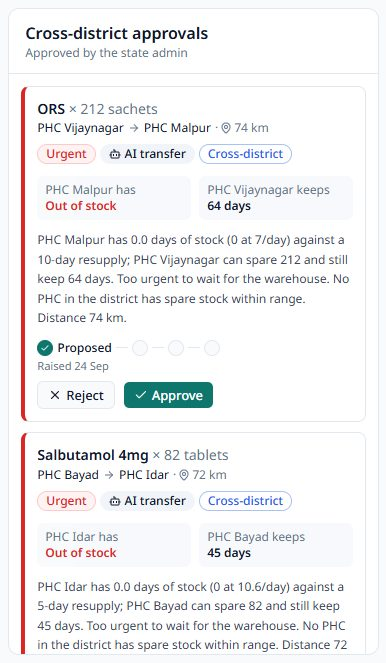
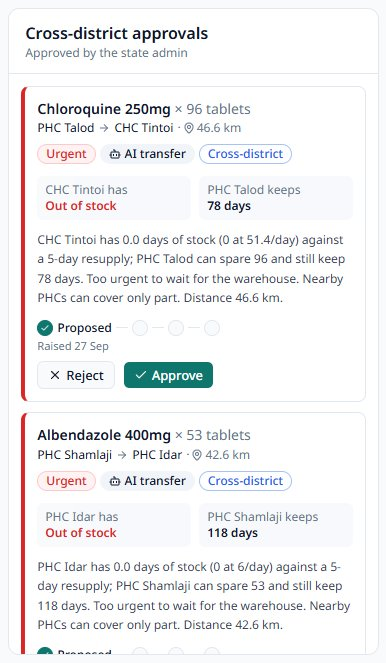
Realistic demo month, planner fixes, updated README and screenshots

diff --git a/src/lib/engine/redistribute.ts b/src/lib/engine/redistribute.ts
@@ -300,6 +300,24 @@ export type NearExpiryBatch = {
 }
 
 /**
+ * How much of batch `b` its holder will use before it expires, first-expiry-first-out: the holder works
+ * through its batches in expiry order at `pdu` a day, and what an earlier batch has not used by its own
+ * expiry date is lost (written off or moved), not carried over.
+ */
+export function usableBeforeExpiry(batches: NearExpiryBatch[], b: NearExpiryBatch, pdu: number): number {
+  const mine = batches
+    .filter((x) => x.facilityId === b.facilityId && x.medicineId === b.medicineId)
+    .sort((x, y) => x.daysToExpiry - y.daysToExpiry || x.batchNo.localeCompare(y.batchNo))
+  let used = 0 // total consumed so far, counted from today
+  for (const x of mine) {
+    const u = Math.max(0, Math.min(x.qty, Math.floor(pdu * x.daysToExpiry) - used))
+    if (x === b) return u
+    used += u
+  }
+  return 0
+}
+
+/**
  * For batches expiring within 90 days, the part the holder won't use before expiry is offered to the
  * nearest facility in the same district that will use its current stock *and* the transfer before
  * that date. Recipients never receive more than they can use in time.
@@ -331,9 +349,8 @@ export function planNearExpiry({
     const hp = byKey.get(key(b.facilityId, b.medicineId))
     // sub-centres never send stock sideways; their PHC handles returns
     if (!holder || holder.type === "shc" || !hp || hp.pdu === null) continue
-    // the holder uses other (earlier) stock first too, so what it can use of this batch is bounded by its own pace
-    const usable = Math.floor(hp.pdu * b.daysToExpiry)
-    let excess = Math.min(b.qty, Math.floor(hp.stock - usable))
+    const usable = usableBeforeExpiry(batches, b, hp.pdu)
+    let excess = Math.min(b.qty - usable, Math.floor(hp.stock))
     if (excess < settings.minTransferQty) continue
 
     const candidates = pairs

diff --git a/src/lib/engine/redistribute.test.ts b/src/lib/engine/redistribute.test.ts
@@ -100,9 +100,26 @@ describe("planNearExpiry", () => {
       settings,
     })
     expect(out).toHaveLength(1)
-    // A can use 10/day × 45 = 450 before expiry, minus its own 50 -> room for 400; the excess is min(300, 600-90)
-    expect(out[0]).toMatchObject({ fromId: "B", toId: "A", qty: 300, priority: 2 })
+    // B uses 90 of the batch before expiry, so 210 would expire; A can use 10/day × 45 = 450, minus its own 50 -> room for 400
+    expect(out[0]).toMatchObject({ fromId: "B", toId: "A", qty: 210, priority: 2 })
     expect(out[0].reason).toMatch(/Near expiry: batch X1/)
+  })
+
+  it("counts batches that expire earlier as used first", () => {
+    // B uses 2/day. X0 (100, expires day 20): 40 used, 60 expire.
+    // X1 (300, expires day 45): used from day 20 to 45 -> 50 used, 250 expire.
+    const out = planNearExpiry({
+      facilities,
+      pairs: [pair("B", 600, 2, 300), pair("A", 0, 20, 0)],
+      batches: [
+        { facilityId: "B", medicineId: "M", batchNo: "X0", qty: 100, daysToExpiry: 20 },
+        { facilityId: "B", medicineId: "M", batchNo: "X1", qty: 300, daysToExpiry: 45 },
+      ],
+      incoming: new Map(),
+      settings,
+    })
+    expect(out.find((t) => t.reason.includes("X0"))?.qty).toBe(60)
+    expect(out.find((t) => t.reason.includes("X1"))?.qty).toBe(250)
   })
 
   it("does not overload a recipient that cannot use it in time", () => {

diff --git a/src/app/(app)/national/page.tsx b/src/app/(app)/national/page.tsx
@@ -93,7 +93,7 @@ export default async function NationalPage() {
         <StatTile label="States" value={stateList.length} icon={MapIcon} sub={`${districts.length} districts`} />
         <StatTile label="Facilities" value={facilities.length} icon={Building2} sub={`${phcs.length} PHCs`} />
         <StatTile
-          label="PHCs critical"
+          label="Facilities critical"
           value={perState.reduce((a, s) => a + s.phcsCritical, 0)}
           status="critical"
           icon={AlertOctagon}
@@ -125,7 +125,7 @@ export default async function NationalPage() {
               <tr>
                 <th className="px-4 py-2.5 font-medium">State</th>
                 <th className="px-3 py-2.5 text-right font-medium">Districts</th>
-                <th className="px-3 py-2.5 text-right font-medium">PHCs critical</th>
+                <th className="px-3 py-2.5 text-right font-medium">Facilities critical</th>
                 <th className="px-3 py-2.5 text-right font-medium">Critical lines</th>
                 <th className="px-3 py-2.5 text-right font-medium">Pending approvals</th>
                 <th className="px-3 py-2.5 text-right font-medium">Attendance</th>

diff --git a/src/components/heal/phc/doctor-home.tsx b/src/components/heal/phc/doctor-home.tsx
@@ -45,6 +45,8 @@ export async function DoctorHome({ session }: { session: Session }) {
     getIndents(db, { warehouseId: fid, status: ["submitted", "approved"] }),
     getOpenStockouts(db, fid),
   ])
+  // the sub-centres' own stock, so their requests show how many days they have left
+  const subCentreStock = fromSubCentres.length && stock[0] ? await getStock(db, { districtId: stock[0].districtId, facilityType: "shc" }) : []
   const subCentreWaiting = fromSubCentres.filter((i) => i.status === "submitted" && !i.awaitingMo)
   const subCentreToSend = fromSubCentres.filter((i) => i.status === "approved")
 
@@ -139,7 +141,7 @@ export async function DoctorHome({ session }: { session: Session }) {
           className="border-amber-300 ring-4 ring-amber-100"
           bodyClassName="p-3"
         >
-          <RecommendationList items={enrich(subCentreWaiting, stock)} viewer={toViewer(session)} emptyIcon={ClipboardCheck} emptyText="" compact lang={lang} />
+          <RecommendationList items={enrich(subCentreWaiting, subCentreStock)} viewer={toViewer(session)} emptyIcon={ClipboardCheck} emptyText="" compact lang={lang} />
         </Section>
       ) : null}
 

diff --git a/src/components/heal/state-overview.tsx b/src/components/heal/state-overview.tsx
@@ -88,7 +88,7 @@ export async function StateOverview({
       <div className="grid grid-cols-2 gap-3 md:grid-cols-3 xl:grid-cols-5">
         <StatTile label="Districts" value={districts.length} icon={MapIcon} sub={`${facilities.length} facilities`} />
         <StatTile
-          label="PHCs critical"
+          label="Facilities critical"
           value={phcCritical}
           status={phcCritical ? "critical" : "ok"}
           icon={Building2}
@@ -132,7 +132,7 @@ export async function StateOverview({
               <thead className="text-muted-foreground text-left text-xs">
                 <tr className="border-b">
                   <th className="py-2 pr-3 font-medium">District</th>
-                  <th className="px-3 py-2 text-right font-medium">PHCs critical</th>
+                  <th className="px-3 py-2 text-right font-medium">Facilities critical</th>
                   <th className="px-3 py-2 text-right font-medium">Critical items</th>
                   <th className="px-3 py-2 text-right font-medium">Open alerts</th>
                   <th className="px-3 py-2 text-right font-medium">Pending</th>

diff --git a/src/components/heal/phc/stockout-button.tsx b/src/components/heal/phc/stockout-button.tsx
@@ -86,9 +86,9 @@ export function StockoutButton({ lang, facilityId, items }: { lang: Lang; facili
                 className={cn(picked?.id === m.id && "bg-red-50 font-medium text-critical")}
               >
                 <PackageX className={cn("text-muted-foreground", picked?.id === m.id && "text-critical")} aria-hidden="true" />
-                <span className="truncate">{m.name}</span>
-                <span className="text-muted-foreground ml-auto text-xs">
-                  {formatNumber(m.quantity)} {m.unit}s {t(lang, "out.onRecord")}
+                <span className="min-w-0 flex-1 truncate">{m.name}</span>
+                <span className="text-muted-foreground shrink-0 text-xs whitespace-nowrap" title={t(lang, "out.onRecord")}>
+                  {formatNumber(m.quantity)} {m.unit}s
                 </span>
               </CommandItem>
             ))}

diff --git a/src/components/heal/recommendation-card.tsx b/src/components/heal/recommendation-card.tsx
@@ -28,7 +28,11 @@ export function RecommendationCard({
   const qty = isTransfer ? item.qty : (item.qtyApproved ?? item.qtyRequested)
   const from = isTransfer ? item.fromName : item.warehouseName
   const to = isTransfer ? item.toName : item.facilityName
-  const priority = isTransfer ? item.priority : item.receiverDaysLeft !== null && item.receiverDaysLeft < 7 ? 1 : 2
+  const priority = isTransfer
+    ? item.priority
+    : /^urgent/i.test(item.aiReason ?? "") || (item.receiverDaysLeft !== null && item.receiverDaysLeft < 7)
+      ? 1
+      : 2
   const actions = isTransfer ? transferActions(item, viewer) : indentActions(item, viewer)
   const reason = item.aiReason ?? (item.kind === "indent" ? item.note : null)
   const receiverStatus = statusFor(item.receiverDaysLeft, 7)

diff --git a/src/components/heal/district-overview.tsx b/src/components/heal/district-overview.tsx
@@ -70,7 +70,7 @@ export async function DistrictOverview({ db, districtId, viewer }: { db: DB; dis
       />
       <div className="grid grid-cols-2 gap-3 md:grid-cols-3 xl:grid-cols-5">
         <StatTile
-          label="PHCs in critical state"
+          label="Facilities in critical state"
           value={`${formatNumber(summary?.facilitiesCritical ?? 0)} / ${formatNumber(phcs.length)}`}
           status={(summary?.facilitiesCritical ?? 0) > 0 ? "critical" : "ok"}
           icon={Building2}

diff --git a/src/lib/engine/run.ts b/src/lib/engine/run.ts
@@ -502,7 +502,8 @@ export async function runEngine(
             daysLeft: p.fc.daysLeft,
             resupplyDays: f.resupply_days,
           },
-          thresholds,
+          // a warehouse normally holds months of stock for the whole district: overstock only past twice the limit
+          f.type === "warehouse" ? { ...thresholds, overstockDays: thresholds.overstockDays * 2 } : thresholds,
         ),
       )
     }

diff --git a/README.md b/README.md
@@ -41,6 +41,14 @@ AarogyaGrid predicts how much of each medicine every health centre will use over
 |---|---|---|
 | ![District map with boundaries and transfers](docs/screenshots/district-map.jpg) | ![30-day forecast](docs/screenshots/forecast.jpg) | ![National overview](docs/screenshots/national-overview.jpg) |
 
+| Sub-centre (phone) | Scanning a pack | "We've run out" |
+|---|---|---|
+| ![Sub-centre home](docs/screenshots/subcentre-phone.jpg) | ![Scan receipt](docs/screenshots/scan-phone.jpg) | ![We've run out](docs/screenshots/stockout-phone.jpg) |
+
+| District hospital: beds by type | Sub-centre requests at the PHC | Catalogue by level of care |
+|---|---|---|
+| ![District hospital](docs/screenshots/district-hospital.jpg) | ![Sub-centre requests](docs/screenshots/subcentre-requests.jpg) | ![Catalogue by tier](docs/screenshots/tier-catalogue.jpg) |
+
 | Cross-district approval | Admin console: medicines | Asking for a new medicine |
 |---|---|---|
 | ![Cross-district approval](docs/screenshots/cross-district-approval.jpg) | ![Admin console](docs/screenshots/admin-medicines.jpg) | ![Medicine request](docs/screenshots/medicine-request-phone.jpg) |
@@ -120,8 +128,8 @@ Next.js 16 (App Router, React 19, TypeScript) · Tailwind CSS 4 · shadcn/ui + R
 Open the site and pick any account in the **Demo accounts** panel on the login page: one click, no password. Each role sees only its own area. A good tour:
 
 1. **Dungarpur · district** (Dr. Farida Khan): an outbreak warning, the facility map with district borders, and the action queue of suggested orders and transfers.
-2. **PHC · Doctor**, then choose **PHC Malpur**: the doctor's day at a glance and staff requests waiting for sign-off. Switch to **Staff** to see the phone view and voice entry.
-3. **Health facilities**, then choose **SHC Obri**: a sub-centre whose orders go to PHC Sagwara. Then try **District Hospital Dungarpur · Doctor** to see ICU and HDU beds by type.
+2. **PHC · Doctor**, then choose **PHC Malpur**: the doctor's day at a glance and staff requests waiting for sign-off. Switch to **Staff** to see the phone view, voice entry, **Scan receipt** (try the sample pack) and the **We've run out** button.
+3. **Health facilities**, then choose **SHC Obri**: a sub-centre whose orders go to PHC Sagwara; sign in as the **PHC Sagwara** doctor to approve them. Then try **District Hospital Dungarpur · Doctor** to see ICU and HDU beds by type.
 4. **Gujarat · state admin** (Dr. Kiran Desai): transfers between districts, and the Admin console with medicine requests from PHCs.
 5. **India · national admin** (Dr. Meera Iyer): both states on one map, state comparison and forecast accuracy.
 
@@ -130,6 +138,7 @@ Open the site and pick any account in the **Demo accounts** panel on the login p
 - **2 states, 5 districts, 36 PHCs, 12 sub-centres, 2 CHCs, 2 district hospitals, 5 district warehouses and 26 items** (medicines, oxygen, consumables, vaccines, diagnostic kits), about 14 months of daily history with realistic seasons.
 - Jan Aushadhi stores can be shown on the map for reference; they are not part of the government stock chain.
 - Facility names are real places in Udaipur, Rajsamand and Dungarpur (Rajasthan) and Aravalli and Sabarkantha (Gujarat). **All stock, patient and staff numbers are made up.** Sub-centre names, registry IDs (HFR, HPR), barcodes and LaQshya certifications are illustrative.
+- `db/demo/realistic_month.sql` sets the demo to an ordinary month: most shelves stocked, a few items low, a handful of real shortages.
 - `db/demo/simulate_outbreak.sql` creates a fever and diarrhoea surge at three PHCs in Dungarpur; press **Run analysis** as the Dungarpur district officer to see the outbreak alert.
 
 ### Demo accounts
@@ -150,13 +159,15 @@ Sign in with one click from the login page.
 ## Project structure
 
 ```
-src/app/            screens for each role, admin console, API routes
+src/app/            screens for each role, admin console, API routes (engine, AI, FHIR, nightly job)
 src/lib/engine/     forecasting, alerts, redistribution (with tests)
 src/lib/ai/         Gemini calls, prompts and response checks
-src/components/     maps, charts, tables, dialogs, PHC and doctor screens
+src/lib/gs1.ts      reading GS1 / EAN barcodes on medicine packs
+src/lib/fhir.ts     FHIR R4 resources
+src/components/     maps, charts, tables, dialogs, scanner, PHC and doctor screens
 db/base/            base schema and Rajasthan demo data
-db/migrations/      national level, surges, batches, admin console, doctors, medicine lists, facility levels and beds
-db/seed/, db/demo/  Gujarat, sub-centre and hospital demo data; outbreak simulation
+db/migrations/      database changes, applied in order (002–009)
+db/seed/, db/demo/  demo data for both states and every level of care; demo scenarios
 public/geo/         district and state boundaries (OpenStreetMap)
 scripts/            database setup and demo accounts
 ```
@@ -164,7 +175,7 @@ scripts/            database setup and demo accounts
 ## Tests
 
 ```bash
-npm test            # engine tests
+npm test            # engine, barcode and FHIR tests
 npm run lint
 npm run typecheck
 ```
